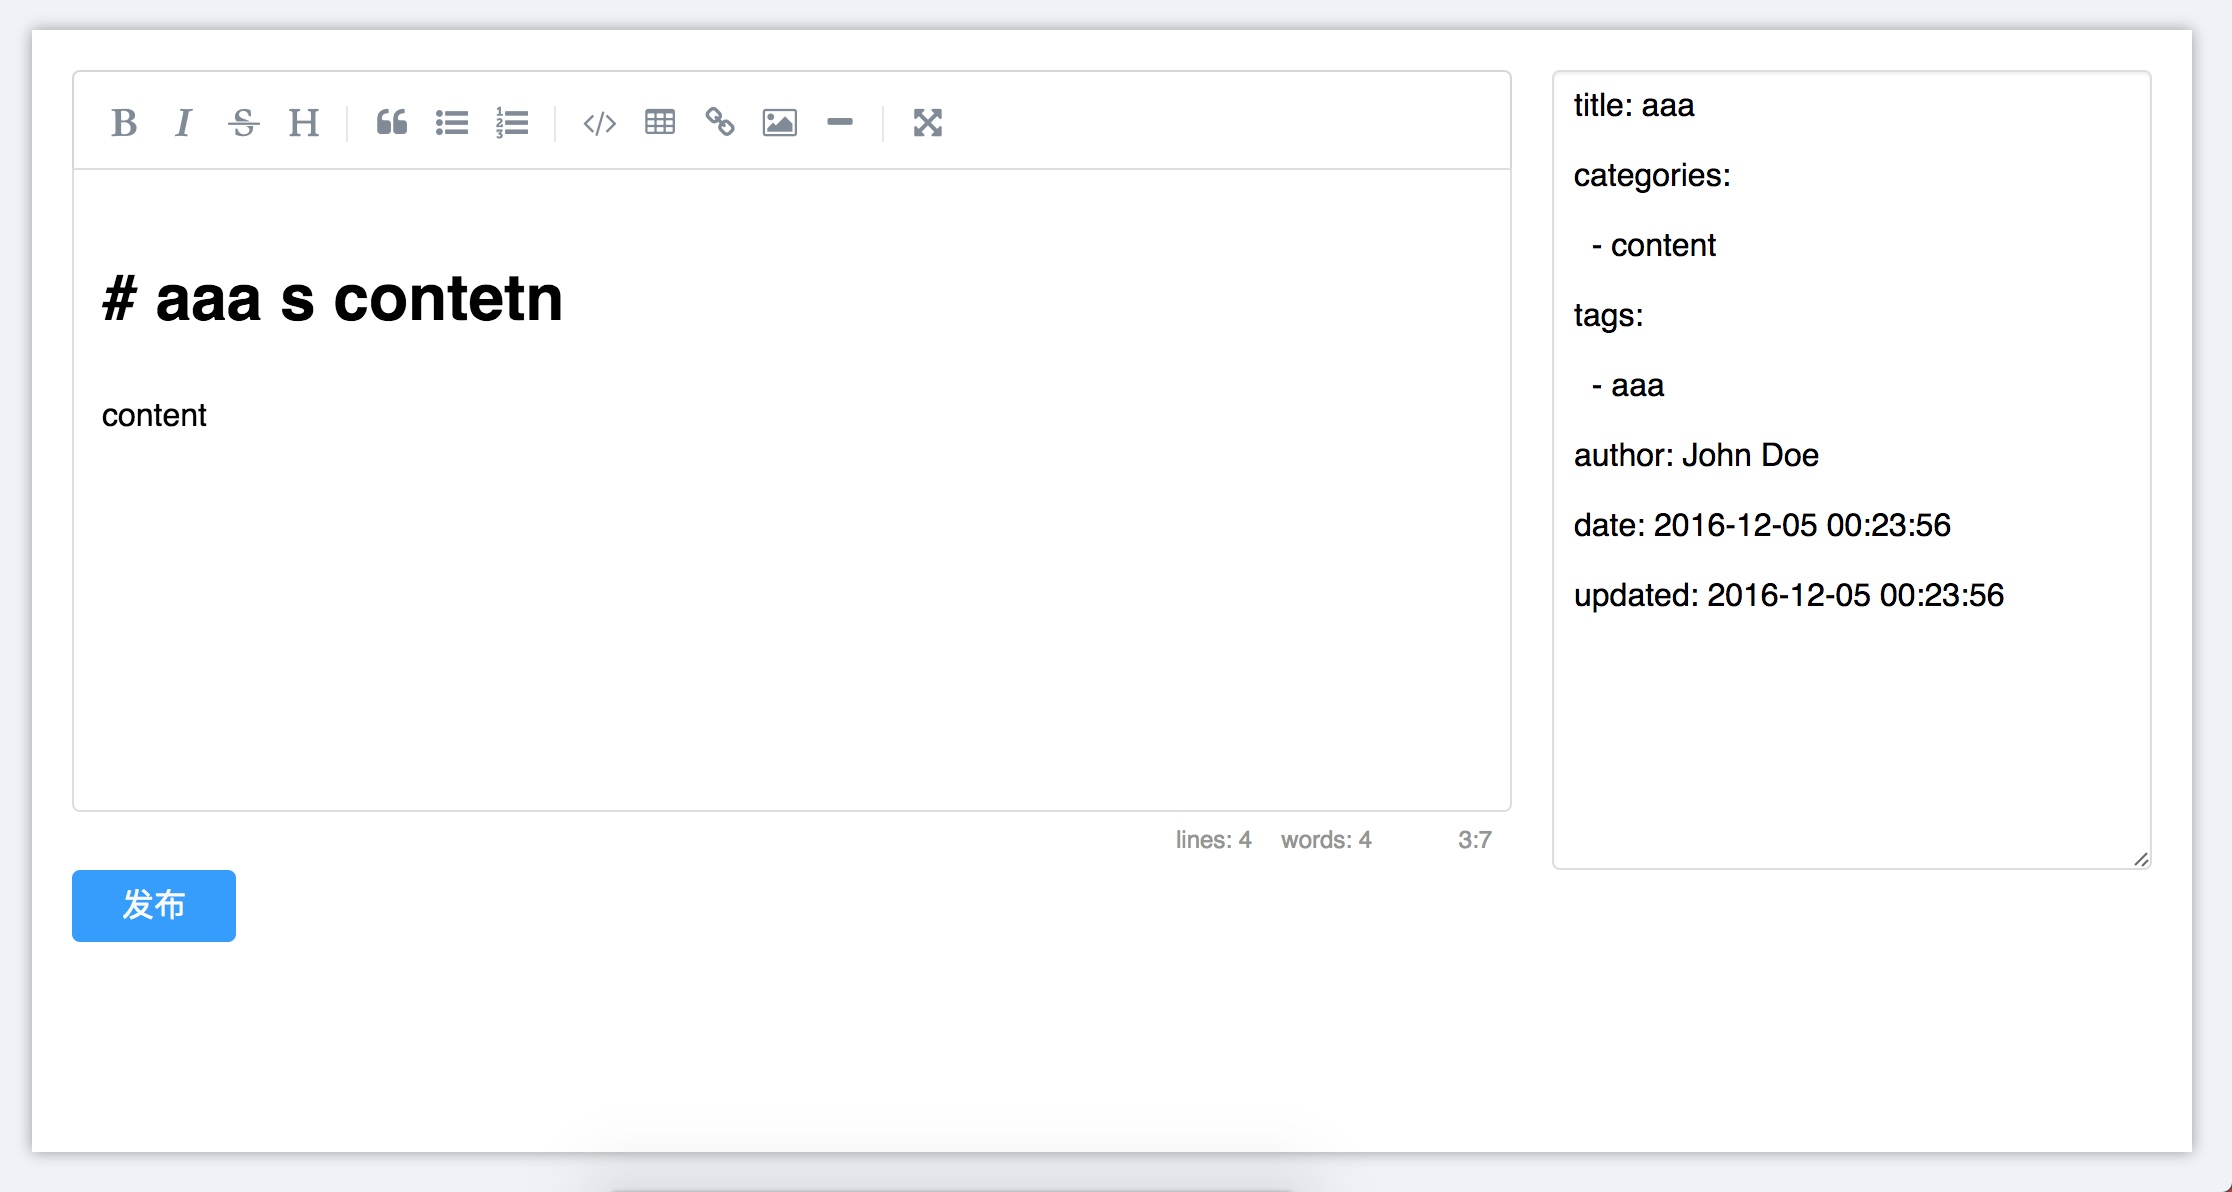
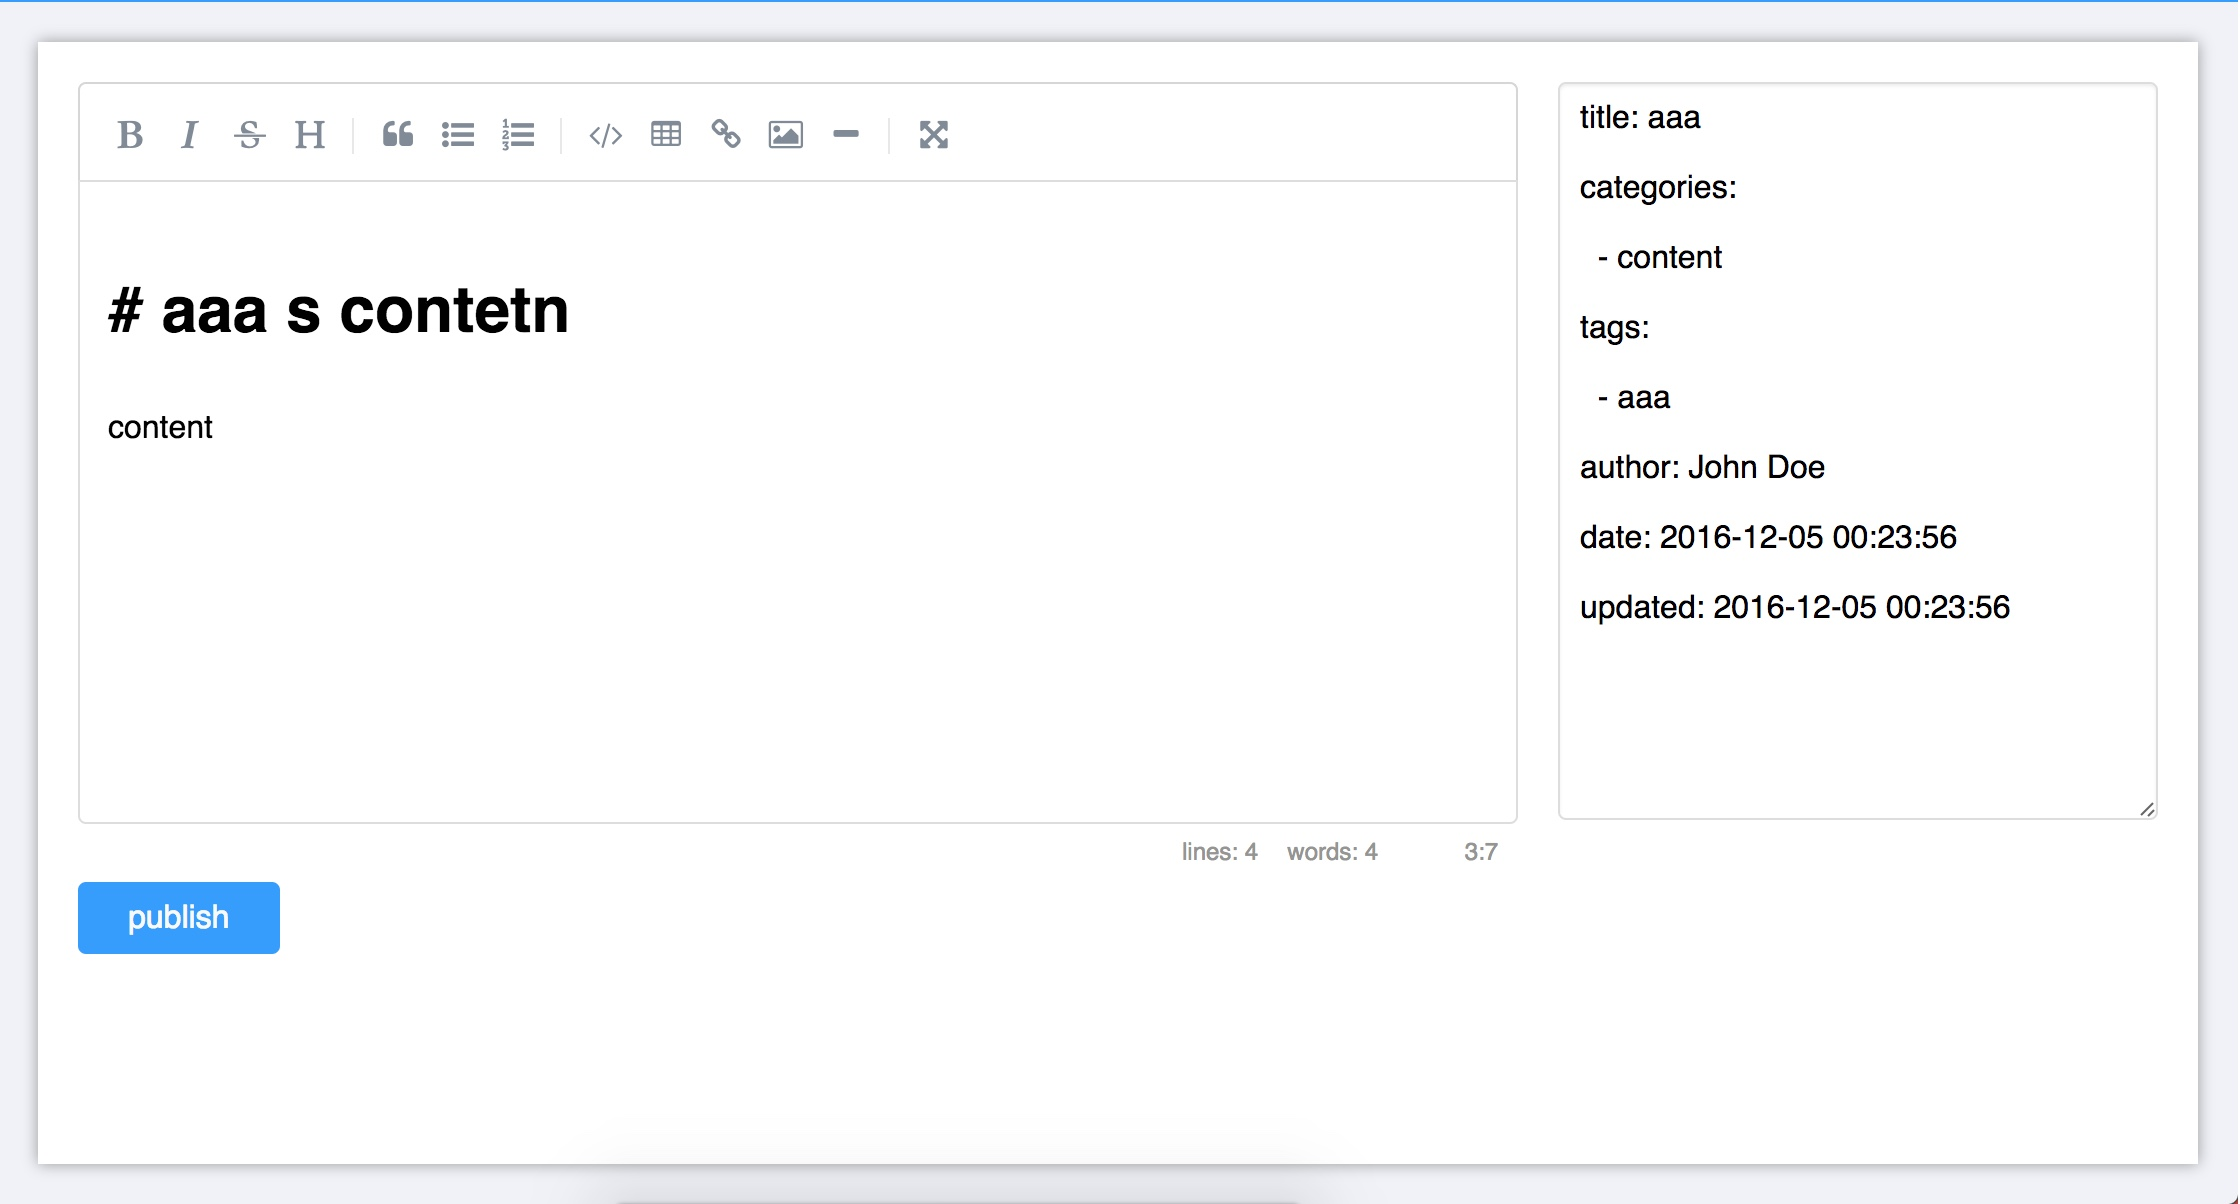
fix

diff --git a/lib/service/post.js b/lib/service/post.js
@@ -10,15 +10,15 @@ module.exports = class PostService {
      *  @param  type [Post, Page]
      */
     constructor(hexo, type) {
-            if (type !== "Post" && type !== "Page") throw "Modle Type should be Post or Page!"
-            this.hexo = hexo;
-            this.type = type;
-            this.draftDir = path.join(this.hexo.source_dir, '_drafts');
-            this.postDir = path.join(this.hexo.source_dir, '_posts');
-        }
-        /**
-         *  @return Promise
-         */
+        if (type !== "Post" && type !== "Page") throw "Modle Type should be Post or Page!"
+        this.hexo = hexo;
+        this.type = type;
+        this.draftDir = path.join(this.hexo.source_dir, '_drafts');
+        this.postDir = path.join(this.hexo.source_dir, '_posts');
+    }
+    /**
+     *  @return Promise
+     */
     updateDB() {
         return this.hexo.source.process();
     }

diff --git a/static/src/components/table/index.html b/static/src/components/table/index.html
@@ -25,7 +25,7 @@
         </tbody>
     </table>
     <div v-if="data.length==0" class="table-empty">
-        <p>列表为空</p>
+        <p>EMPTY</p>
     </div>
     <zpagenav v-if="total>0" :page="page" :page-size="10" :total="total" :max-link="7" :page-handler="pageHandler" ></zpagenav>
 </div>

diff --git a/static/src/template/post-edit.html b/static/src/template/post-edit.html
@@ -5,5 +5,5 @@
     <div class="post-base">
         <m-mde classs="contetn" ref="content" :value="postDetail.content"></m-mde>
     </div>
-    <button @click="submit">发布</button>
+    <button @click="submit">publish</button>
 </div>

diff --git a/lib/index.js b/lib/index.js
@@ -50,5 +50,5 @@ hexo.extend.filter.register("server_middleware", function(app) {
             err = err.toString();
         }
         resp.send(err);
-    })
+    });
 });
